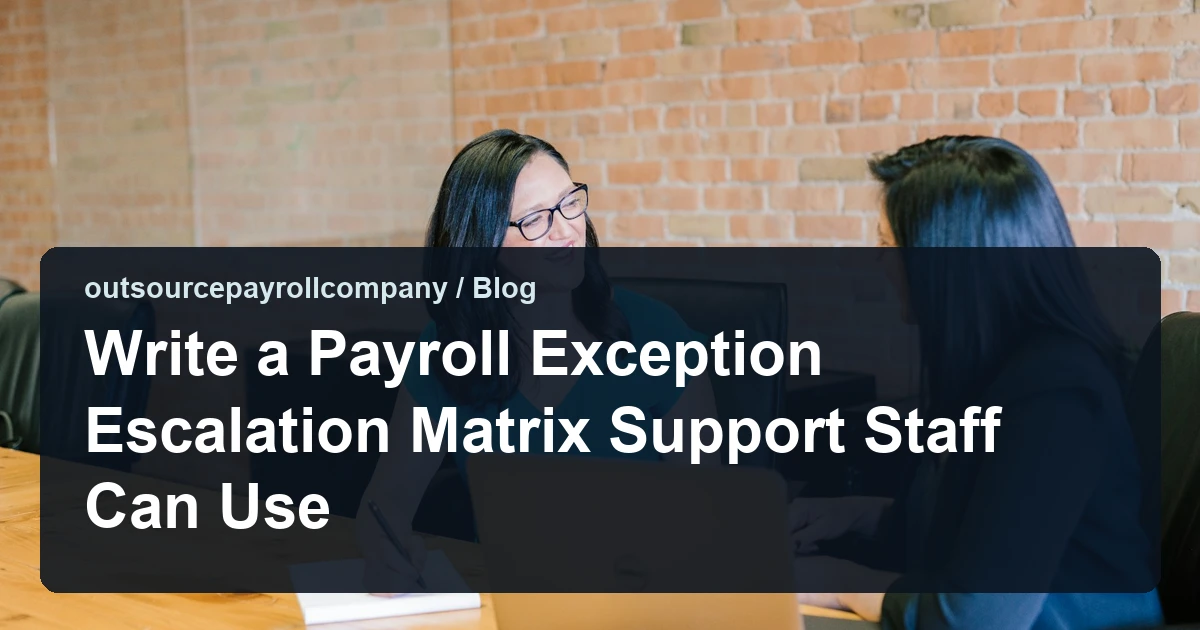
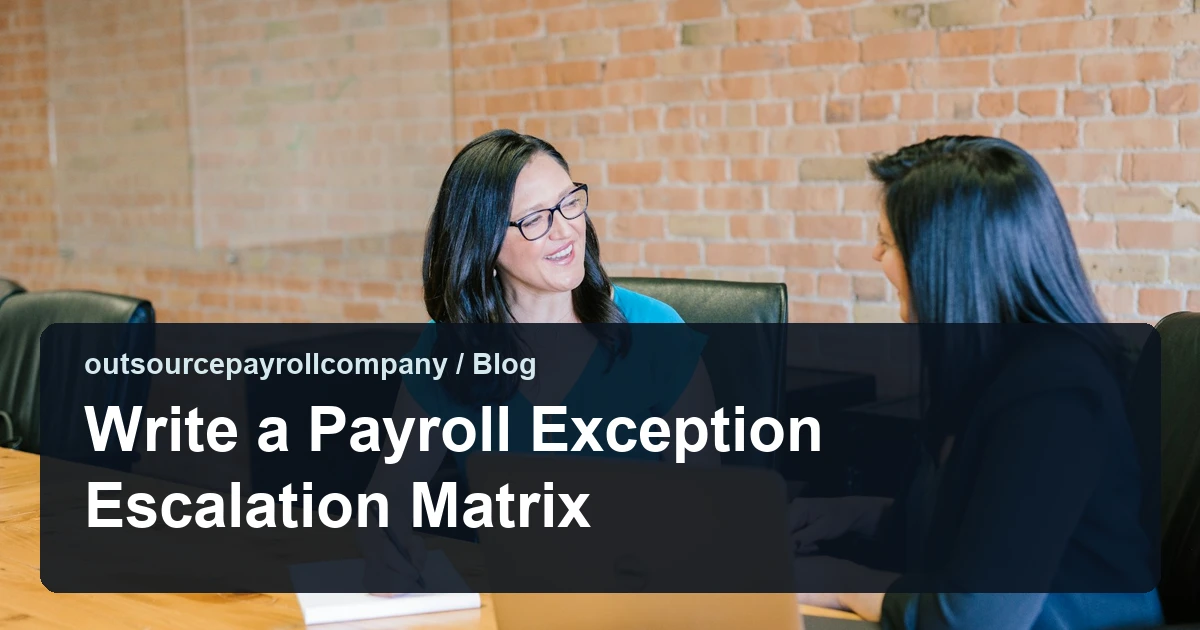
fix: align remaining 2026-11-09 payroll blog title with slug

Changed region(s): [[0.0308, 0.3921, 0.9867, 0.6333], [0.0617, 0.6333, 0.8325, 0.754], [0.0617, 0.754, 0.4933, 0.8444]]

diff --git a/app/nov09-current-blog.ts b/app/nov09-current-blog.ts
@@ -26,7 +26,7 @@ export const nov09CurrentBlogPosts = [
   },
   {
     "slug": "outsourcepayrollcompany-write-a-payroll-exception-escalation-matrix",
-    "title": "Write a Payroll Exception Escalation Matrix Support Staff Can Use",
+    "title": "Write a Payroll Exception Escalation Matrix",
     "excerpt": "A short matrix that names the trigger, the authority, the time band, and the evidence for every payroll decision support staff cannot make alone.",
     "minutes": 8,
     "published": "2026-11-09",
